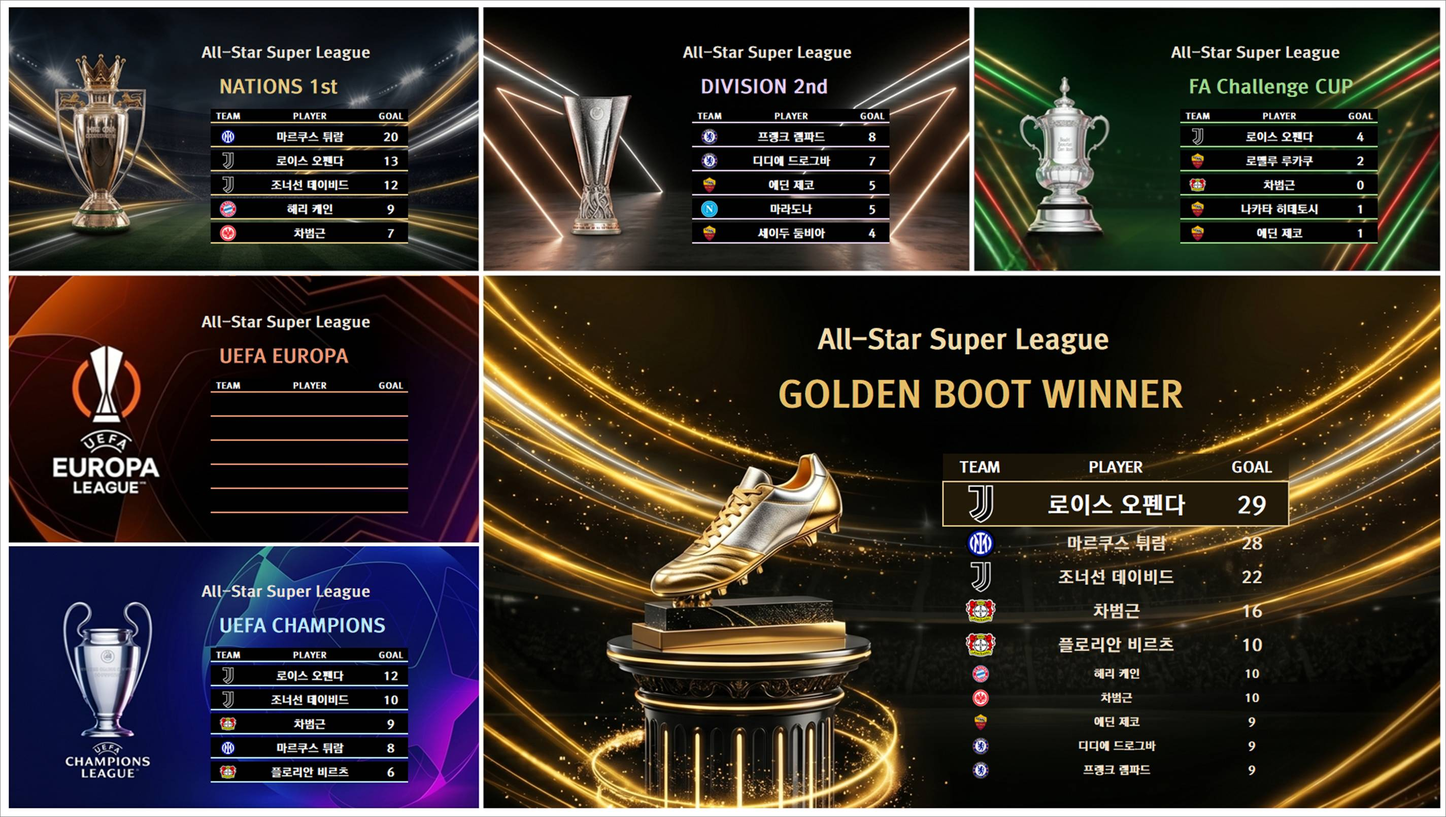
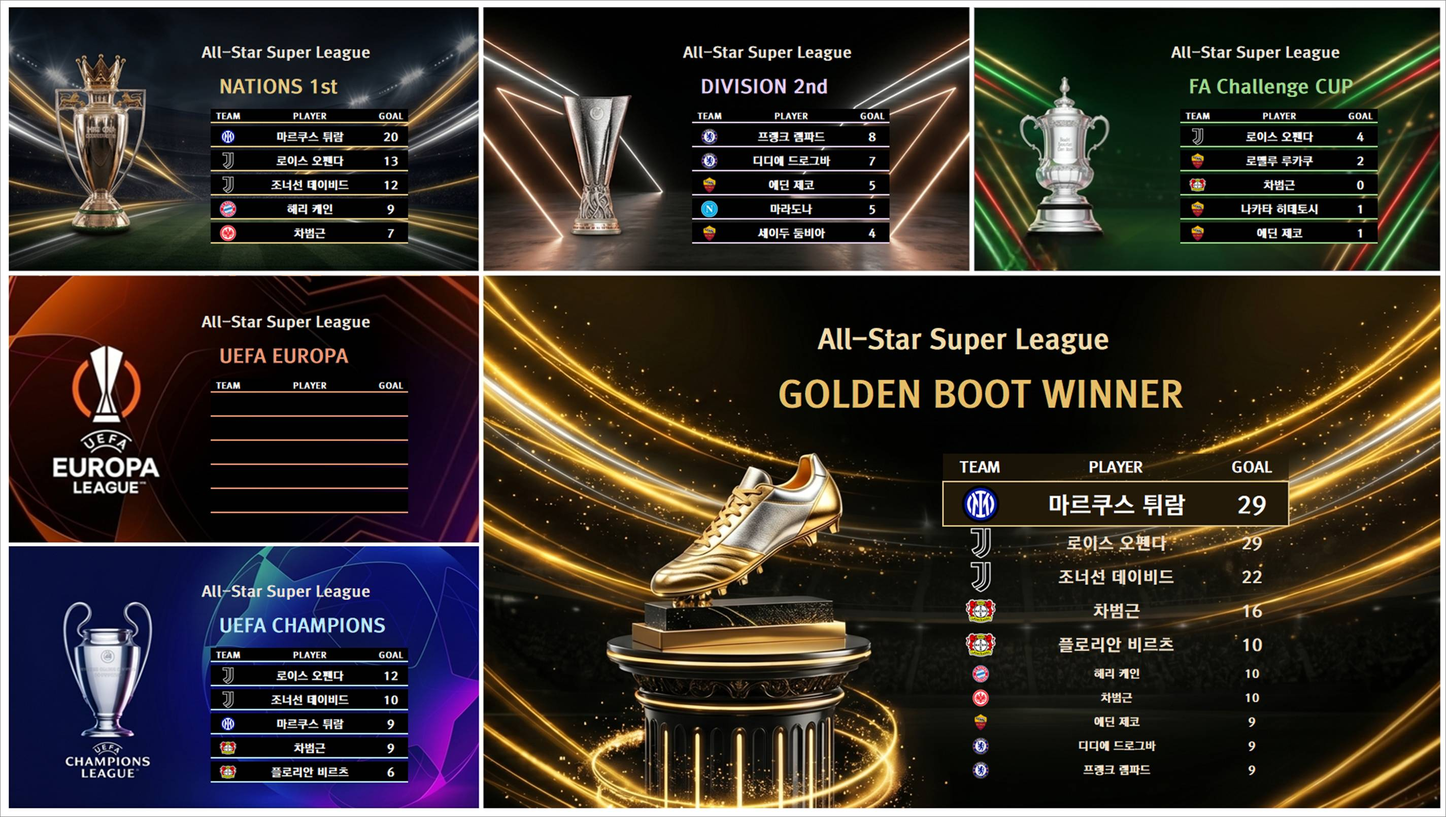
Optimize: 21:54:12

Changed region(s): [[0.7185, 0.5901, 0.8122, 0.6832], [0.1562, 0.8696, 0.2499, 0.9317], [0.656, 0.5901, 0.6873, 0.6832]]

diff --git a/index.html b/index.html
@@ -69,11 +69,11 @@
     <div class="container">
         <div class="card"><h2>🥇 1부 리그 순위표</h2><img src="https://i.ibb.co/WvPCqF84/f76436f70ba2.jpg" alt="1부 리그"></div>
         <div class="card"><h2>🥈 2부 리그 순위표</h2><img src="https://i.ibb.co/355t0FcC/38eccfb8b0e0.jpg" alt="2부 리그"></div>
-        <div class="card"><h2>🌟 UCL 그룹스테이지</h2><img src="https://i.ibb.co/VbfG4FV/258c27092a21.jpg" alt="UCL 조별"></div>
-        <div class="card"><h2>🏆 UCL 토너먼트 대진표</h2><img src="https://i.ibb.co/n8s5BRyL/b9a11dda8ecb.jpg" alt="UCL 토너"></div>
+        <div class="card"><h2>🌟 UCL 그룹스테이지</h2><img src="https://i.ibb.co/v6Y9BqGX/9b3a4502349e.jpg" alt="UCL 조별"></div>
+        <div class="card"><h2>🏆 UCL 토너먼트 대진표</h2><img src="https://i.ibb.co/1fcc4hHv/8ce2aab6e6c7.jpg" alt="UCL 토너"></div>
         <div class="card"><h2>🎖 UEL 토너먼트 대진표</h2><img src="https://i.ibb.co/zHC97Nxq/a2267226ccb8.jpg" alt="UEL 토너"></div>
         <div class="card"><h2>🏅 FA컵 토너먼트 대진표</h2><img src="https://i.ibb.co/Z653m5hL/aecb38c6ed90.jpg" alt="FA컵"></div>
-        <div class="card"><h2>👑 GOLDEN BOOT (통합 득점왕)</h2><img src="https://i.ibb.co/VWf4TpGx/827c6fb58ff3.jpg" alt="득점왕"></div>
+        <div class="card"><h2>👑 GOLDEN BOOT (통합 득점왕)</h2><img src="https://i.ibb.co/VcbZGYTt/b8512bf112c3.jpg" alt="득점왕"></div>
     </div>
     
     <footer>
